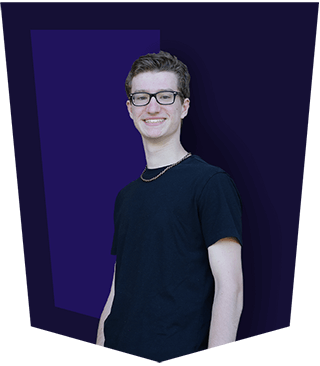
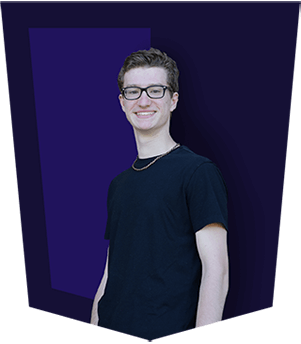
meta tag updates for SEO and image optimized

diff --git a/src/pages/about.js b/src/pages/about.js
@@ -37,9 +37,9 @@ class About extends React.Component{
             <div>
                 <Meta 
                     title="About Me"
-                    desc=">I am a front end web developer from Maine. I specialize with the React JS framework to create
-                                ui and implement these ui in website development. I have developed my own UI and wireframe design
-                                and from a prototype. Addtionally, I done Graphic Design for several at CATC, and understand
+                    desc="Owen G. Bean is a front end web developer from Maine. Owen specialize with the React JS framework to create
+                                ui and implement these ui in website development. He have developed my own UI and wireframe design
+                                and from a prototype. Addtionally, Owen Bean has done Graphic Design for several at CATC, and understand
                                 graphic design fundaments."
                 />
                 <Navbar />

diff --git a/src/pages/index.js b/src/pages/index.js
@@ -107,9 +107,10 @@ class Home extends React.Component{
     return(
       <div className="container">
         <Meta
-            desc="Owen Bean is a front end developer from Maine. He mainly programs with HTML, CSS, JS, React JS, Sass, and Gatsby JS.
+            desc="Owen G. Bean is a front end developer from Maine. Owen mainly programs with HTML, CSS, JS, React JS, Sass, and Gatsby JS. 
             He creates elegant websites with screen respondsive and has the ability to be scaled up. 
-            Additionally, he has knowledge of Graphic Design, and is proficient with Adobe Photoshop and Adobe Illustrator"
+            Additionally, he has knowledge of Graphic Design, and is proficient with Adobe Photoshop and Adobe Illustrator. 
+            Feel free to check out Owen G. Bean webpage!"
         />
         <Navbar />
         <main className="index-main">

diff --git a/src/pages/graphics.js b/src/pages/graphics.js
@@ -66,7 +66,7 @@ class Graphics extends React.Component{
             <div>
                 <Meta 
                     title="Graphic Design Portfolio"
-                    desc="I know how to use Photoshop CC and Illustrator CC from my graphic design"
+                    desc="Owen G. Bean knows how to use Photoshop CC and Illustrator CC from my graphic design"
                 />
                 <Navbar />
                 <main style={STYLE.main}>

diff --git a/src/pages/explore.js b/src/pages/explore.js
@@ -50,7 +50,7 @@ class Explore extends React.Component{
             <div>
                 <Meta 
                     title="Explore"
-                    desc="Explore different fun thinfs Owen Bean has created.
+                    desc="Explore different fun things Owen G. Bean has created.
                         This includes games, blog, and some React UI Components"
                 />
                 <Navbar />

diff --git a/src/pages/contact.js b/src/pages/contact.js
@@ -18,7 +18,7 @@ class Contact extends React.Component{
             <div>
                 <Meta 
                     title="Contact Me"
-                    desc="Contact Me with email owenbean400@gmail.com or with Linkedin"
+                    desc="Contact Owen G. Bean with email owenbean400@gmail.com or with Linkedin"
                 />
                 <Navbar />
                 <main className="contact-main">

diff --git a/src/pages/games.js b/src/pages/games.js
@@ -18,7 +18,7 @@ class Game extends React.Component{
                 <Navbar />
                 <Meta 
                     title="Games"
-                    desc="Play Owen Bean Games that he created and built with Javascript"
+                    desc="Play Owen G. Bean Games that he created and built with Javascript"
                 />
                 <main>
                     <Section header="Games">

diff --git a/src/pages/portfolio.js b/src/pages/portfolio.js
@@ -63,7 +63,7 @@ class Portfolio extends React.Component{
             <div>
                 <Meta 
                     title="Portfolio"
-                    desc="My portfolio of front end development and graphic designs"
+                    desc="Owen G. Bean portfolio of front end development and graphic designs"
                 />
                 <Navbar />
                 <main style={STYLE.main}>

diff --git a/src/pages/websites.js b/src/pages/websites.js
@@ -58,7 +58,7 @@ class Websites extends React.Component{
             <div>
                 <Meta 
                     title="Website Portfolio"
-                    desc="My Front End Development and UI Design portfolio"
+                    desc="Owen G. Bean Front End Development and UI Design portfolio"
                 />
                 <Navbar />
                 <main style={STYLE.main}>
